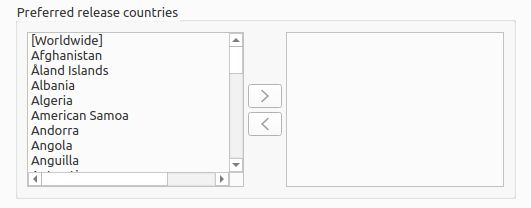
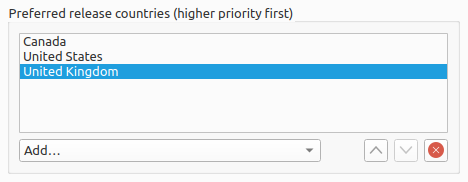
Update release matching documentation to match the new user interface

diff --git a/config/options_releases.rst b/config/options_releases.rst
@@ -3,9 +3,13 @@
 :index:`Preferred Releases <configuration; release preferences>`
 ================================================================
 
+These settings allow you to configure Picard to prefer certain types of releases, countries, and formats when matching files or clusters to releases. In each case, you can add one or more values to the list of preferred values, and Picard will prioritize matching to releases with those values. You can set the relative matching priority of the values by adjusting their order in the list. The higher a value is in the list, the more likely Picard will be to match releases with that value.
+
 **Preferred Release Types**
 
-   Adjust the sliders on the right-hand side of each of the various release types to tweak how likely Picard is to match a file or cluster to releases of that types. Moving a slider to the right increases the likelihood of matching that type, while moving the slider to the left decreases the likelihood.
+   This setting allows you to configure the preferred release types to use. The top section sets the release types to prefer, while the bottom section sets the release types to avoid. The release types are listed in order of preference, with the most preferred release type at the top of the list. The types to avoid are not listed in any particular order because they are all treated equally.
+
+   Types not specifically listed in either section are treated as neutral, and will be considered only after the preferred types and before the avoided types. This allows you to configure Picard to prefer certain release types, while avoiding others, without having to list every possible release type.
 
    .. only:: not latex
 
@@ -22,7 +26,9 @@
 
 **Preferred Release Countries**
 
-   Add one or more countries into the list to make Picard prefer matching clusters or files to releases from the chosen countries. This list is also used to prioritize files in the "Other Releases" context menu.
+   This setting allows you to configure the preferred release countries to use when matching files or clusters to releases. The release countries are listed in order of preference, with the most preferred release country at the top of the list. This list is also used to prioritize files in the "Other Releases" context menu.
+
+   Countries not specifically listed are treated as neutral, and will be considered only after the preferred countries. This allows you to configure Picard to prefer certain release countries without having to list every possible country.
 
    .. only:: not latex
 
@@ -37,7 +43,9 @@
 
 **Preferred Medium Formats**
 
-   Add one or more formats into the list to make Picard prefer matching clusters or files to releases of the specified format. This list is also used to prioritize files in the "Other Releases" context menu.
+   This setting allows you to configure the preferred medium formats to use when matching files or clusters to releases. The medium formats are listed in order of preference, with the most preferred format at the top of the list. This list is also used to prioritize files in the "Other Releases" context menu.
+
+   Formats not specifically listed are treated as neutral, and will be considered only after the preferred formats. This allows you to configure Picard to prefer certain medium formats without having to list every possible format.
 
    .. only:: not latex
 
